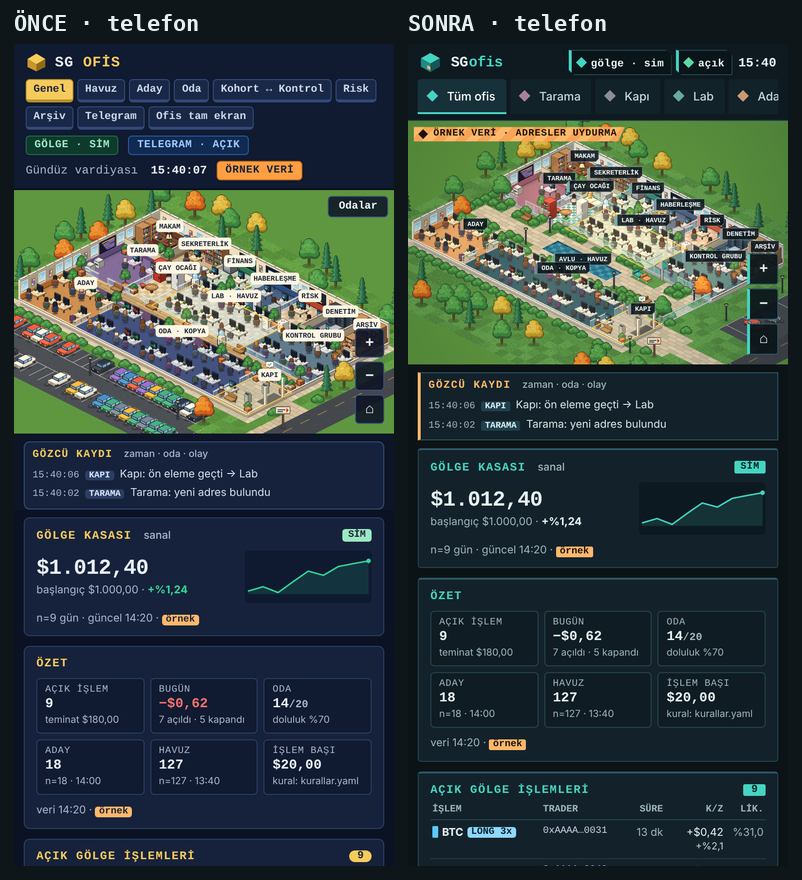
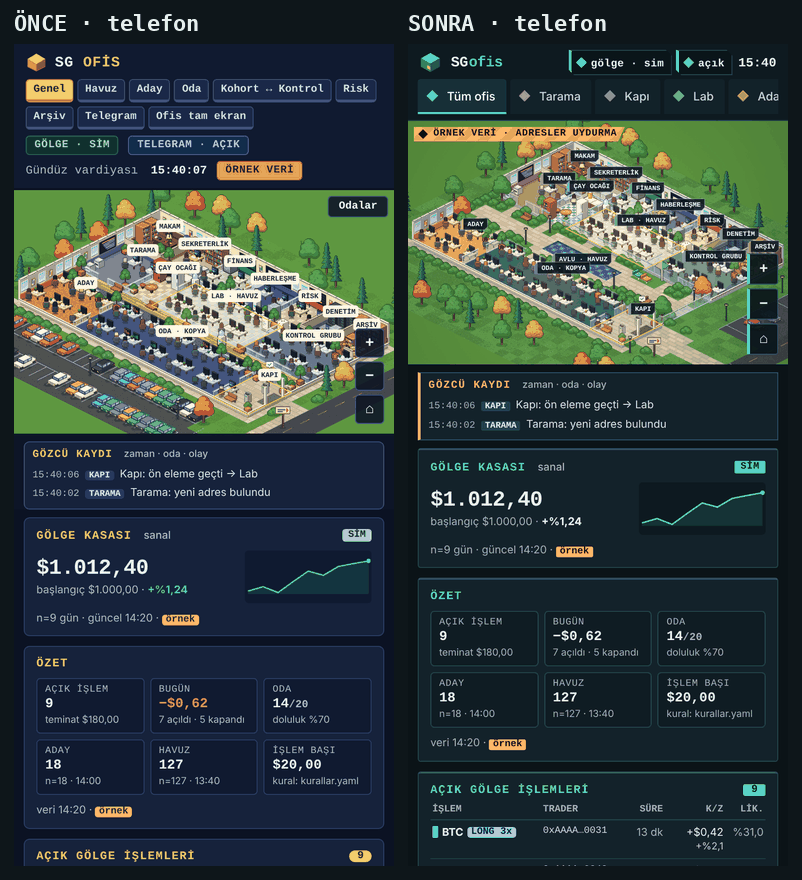
Ofis: kart sütunu varsayılan gizli; sol menüden açılan panel, günlük özet şeridi
- Masaüstünde kart sütunu gizli, tuval tüm genişlikte (◧ klasik sütunu geri getirir)
- Sol menü → kamera odaya + eşlenen kartlar ofisin üstünde panel (tek tablo: PANEL_ESLE)
- Kapatma: ×, Esc, boş alan, aynı menüye ikinci tıklama, Tüm ofis; adres #oda/<ad> korunur
- Günlük özet ofis üst kenarında tek satırlık şerit
- Telefon düzeni değişmedi; testler (ui.test.js bölüm Q), önce/sonra ekran görüntüleri

Claude-Session: https://claude.ai/code/session_01MMmx1yzZmzZDfT26uZLMe2

diff --git a/ofis/test/ui.test.js b/ofis/test/ui.test.js
@@ -35,6 +35,7 @@ const srv = http.createServer((q, r) => {
   let st = await pg.evaluate(() => ({ h: location.hash, a: OFIS.debug.mode.active, r: OFIS.debug.mode.room, t: OFIS.debug.roomT(), ust: !document.getElementById('odaUst').hidden, pr: document.querySelector('.ray [data-oda=lab]').getAttribute('aria-pressed') }));
   ok('Lab: adres #oda/lab, oda içi açık, geçiş tamam, geri düğmesi görünür', st.h === '#oda/lab' && st.a && st.r === 'lab' && st.t === 1 && st.ust && st.pr === 'true', JSON.stringify(st));
   const z1 = await pg.evaluate(() => OFIS.debug.cam.z), zf = await pg.evaluate(() => { const c = OFIS.debug.cam; return c.z; });
+  await pg.keyboard.press('Escape'); await sleep(300);                          // ilk Esc: sol menüden açılan paneli kapatır (odada kalır)
   await pg.keyboard.press('Escape'); await sleep(900);
   st = await pg.evaluate(() => ({ h: location.hash, a: OFIS.debug.mode.active, t: OFIS.debug.roomT(), ust: document.getElementById('odaUst').hidden, z: OFIS.debug.cam.z }));
   ok('Esc binaya döndürür (adres temizlenir, yakınlaşma geri alınır)', st.h === '' && !st.a && st.t === 0 && st.ust && st.z < z1 * 0.7, JSON.stringify(st) + ' zLab=' + z1.toFixed(2));
@@ -409,6 +410,101 @@ const srv = http.createServer((q, r) => {
   tx = await pg.evaluate(() => document.getElementById('bilgi').textContent);
   ok('terfi eden trader\'ın kat_olay kaydı olaydan gelir (kural, olay_id)', await pg.evaluate(() => { const t = OFIS.Office.state().traders.T004, e = OFIS.data.olaylar.find(x => x.tur === 'terfi'); return t.kat_olay && t.kat_olay.id === e.id && t.kat_olay.kural === e.kural; }));
   ok('trader repliği ve "Neden burada?" kural metnini olaydaki kural alanından alır', /≥ 3 hafta ve ≥ 10 kapanmış işlem/.test(tx), tx.slice(0, 100));
+  await ctx.close();
+
+
+  /* ---------- Q. ofis paneli: kart sütunu varsayılan gizli, sol menüden açılan panel, günlük özet şeridi ---------- */
+  ({ ctx, pg } = await open());
+  await pg.evaluate(() => { OFIS.Office.state().speed = 0; });
+  const q0 = await pg.evaluate(() => ({ sol: getComputedStyle(document.getElementById('sol')).display, tw: document.getElementById('tuval').getBoundingClientRect().width, iw: innerWidth, rayW: document.querySelector('.ray').getBoundingClientRect().width,
+    serit: (() => { const e = document.getElementById('gunSerit'), r = e.getBoundingClientRect(); return { h: r.height, top: r.top, w: r.width, txt: e.textContent }; })(), zp: document.getElementById('zPanel').getAttribute('aria-pressed') }));
+  ok('masaüstü: kart sütunu varsayılan gizli, ofis tuvali tüm genişliği kullanır (sol menü kalır)', q0.sol === 'none' && q0.tw >= q0.iw - q0.rayW - 2 && q0.rayW > 100 && q0.zp === 'false', JSON.stringify({ sol: q0.sol, tw: q0.tw, iw: q0.iw, rayW: q0.rayW }));
+  ok('günlük özet: ofisin üst kenarında tek satırlık şerit ("dün: …")', q0.serit.h <= 32 && /dün:/.test(q0.serit.txt) && q0.serit.w >= q0.tw - 2, JSON.stringify(q0.serit));
+  const gozcu0 = await pg.evaluate(() => { const r = document.getElementById('hGozcu').closest('.gozcu').getBoundingClientRect(); return { l: Math.round(r.left), b: Math.round(innerHeight - r.bottom), vis: r.height > 0 }; });
+  ok('Gözcü kaydı kutusu yerinde (sol altta)', gozcu0.vis && gozcu0.l < 200 && gozcu0.b < 80, JSON.stringify(gozcu0));
+  const panelDurum = () => pg.evaluate(() => { const p = document.getElementById('kartPanel'), r = p.getBoundingClientRect(); return { acik: !p.hidden && r.height > 0, kartlar: [...p.querySelectorAll('.kart')].map(k => k.id), baslik: document.getElementById('kpBaslik').textContent, hash: location.hash, oda: OFIS.debug.mode.room, aktif: OFIS.debug.mode.active, bilgi: !document.getElementById('bilgi').hidden, yer: r.left > 0 }; });
+  ok('açılışta panel kapalı, bina görünümü', !(await panelDurum()).acik && !(await panelDurum()).aktif);
+  /* eşleme tablosu: oda → kartlar; tabloda olmayanlar oda bilgisi kartı */
+  const ESLE = { finans: ['cKasa'], risk: ['cRisk'], oda: ['cAcik', 'cKap'], arsiv: ['cVeri'], haberlesme: ['cTelegram'], kontrol: ['cKohort'], tarama: ['cOzet', 'cHuni'], kapi: ['cOzet', 'cHuni'], lab: ['cOzet', 'cHuni'], aday: ['cOzet', 'cHuni'] };
+  const bozuk = [];
+  for (const id of Object.keys(ESLE)) {
+    await pg.click('.ray [data-oda=' + id + ']'); await sleep(450);
+    const d = await panelDurum();
+    if (!(d.acik && JSON.stringify(d.kartlar) === JSON.stringify(ESLE[id]) && d.hash === '#oda/' + id && d.oda === id && d.aktif && !d.bilgi)) bozuk.push(id + ':' + JSON.stringify(d));
+  }
+  ok('sol menü → panel eşlemesi (Finans→kasa, Risk→risk, Oda→açık işlemler, Tarama/Kapı/Lab/Aday→özet+huni, Arşiv→veri kalitesi, Haberleşme→Telegram) + kamera odaya, adres #oda/<ad>', bozuk.length === 0, bozuk.join(' | ').slice(0, 300));
+  const digerleri = [];
+  for (const id of ['denetim', 'sekreterlik', 'makam', 'cay']) {
+    await pg.click('.ray [data-oda=' + id + ']'); await sleep(450);
+    const d = await panelDurum();
+    if (!(!d.acik && d.bilgi && d.oda === id && /oda/i.test(await pg.evaluate(() => document.getElementById('bilgi').textContent)))) digerleri.push(id + ':' + JSON.stringify(d));
+  }
+  ok('diğer odalar (Denetim, Sekreterlik, Makam, Çay ocağı) → oda bilgisi kartı, panel kapalı', digerleri.length === 0, digerleri.join(' | ').slice(0, 300));
+  /* kartlar panelde: sütundan alınır, kapanınca yerine döner */
+  await pg.click('.ray [data-oda=finans]'); await sleep(450);
+  ok('panelde kart sütunundan alınan gerçek kart (Gölge kasası kilitli içerik)', await pg.evaluate(() => { const k = document.querySelector('#kartPanel #cKasa'); return !!k && /kilitli/i.test(k.textContent) && k.closest('#sol') === null; }));
+  const sirasi = await pg.evaluate(() => [...document.querySelectorAll('#sol > .kart')].map(k => k.id).join(','));
+  ok('açıkken kart sütunundan eksik (cKasa yok)', !/cKasa/.test(sirasi), sirasi);
+  /* kapatma yolları */
+  const kapaliMi = async () => !(await panelDurum()).acik && await pg.evaluate(() => document.querySelectorAll('#sol > .kart').length === 10 && document.querySelector('#sol > #cKasa') !== null);
+  await pg.click('#kpKapat'); await sleep(250);
+  const dK = await panelDurum();
+  ok('× düğmesi paneli kapatır, kartlar sütuna döner, oda içinde kalınır', await kapaliMi() && dK.aktif && dK.oda === 'finans');
+  await pg.click('.ray [data-oda=finans]'); await sleep(450); await pg.keyboard.press('Escape'); await sleep(250);
+  const dE = await panelDurum();
+  ok('Esc önce paneli kapatır (odada kalır)', await kapaliMi() && dE.aktif && dE.oda === 'finans');
+  await pg.keyboard.press('Escape'); await sleep(900);
+  ok('ikinci Esc binaya döndürür', !(await panelDurum()).aktif);
+  await pg.click('.ray [data-oda=risk]'); await sleep(450);
+  await pg.click('.ray [data-oda=risk]'); await sleep(250);
+  ok('aynı menüye ikinci tıklama paneli kapatır', await kapaliMi() && (await panelDurum()).aktif);
+  await pg.click('.ray [data-oda=risk]'); await sleep(450);
+  ok('aynı menüye üçüncü tıklama yeniden açar', (await panelDurum()).acik);
+  await pg.click('.ray [data-oda=makam]'); await sleep(450); await pg.click('.ray [data-oda=makam]'); await sleep(250);
+  ok('oda bilgisi kartında da ikinci tıklama kapatır', !(await panelDurum()).bilgi);
+  await pg.click('.ray [data-oda=finans]'); await sleep(450);
+  const bos = await pg.evaluate(() => { const r = document.getElementById('tuval').getBoundingClientRect(); for (let y = 140; y < r.height - 240; y += 20) for (let x = 520; x < r.width - 80; x += 20) { const w = OFIS.debug.toWorld(x, y); if (!OFIS.debug.pick(w.x, w.y, false)) return { x: r.left + x, y: r.top + y }; } return null; });
+  await pg.mouse.click(bos.x, bos.y); await sleep(500);
+  ok('ofiste boş alana tıklama paneli kapatır', await kapaliMi() || !(await panelDurum()).acik);
+  await pg.click('.ray [data-oda=lab]'); await sleep(450);
+  await pg.click('.ray [data-tab=genel]'); await sleep(900);
+  const dT = await panelDurum();
+  ok('"Tüm ofis" paneli kapatır ve binayı gösterir (adres temizlenir)', await kapaliMi() && !dT.aktif && dT.hash === '');
+  await pg.goto(pg.url().split('#')[0] + '#oda/lab'); await pg.reload(); await pg.waitForFunction('window.OFIS&&window.OFIS.ready'); await sleep(900);
+  const dH = await panelDurum();
+  ok('adres #oda/lab davranışı korunur (doğrudan açılış: oda içi, panel kendiliğinden açılmaz)', dH.aktif && dH.oda === 'lab' && !dH.acik);
+  await pg.click('.ray [data-oda=finans]'); await sleep(450);
+  await pg.goBack(); await sleep(900);
+  ok('tarayıcı geri tuşu: panel kapanır, önceki duruma dönülür', !(await panelDurum()).acik);
+  /* günlük özet şeridi → ayrıntı paneli */
+  await pg.click('.ray [data-tab=genel]'); await sleep(700);
+  await pg.click('#gunSerit'); await sleep(300);
+  const dG = await panelDurum();
+  ok('günlük özet şeridine tıklayınca ayrıntı paneli (Günlük özet kartı)', dG.acik && JSON.stringify(dG.kartlar) === '["cGun"]' && /dün/.test(await pg.evaluate(() => document.querySelector('#kartPanel #gunIcerik').textContent)));
+  await pg.click('#gunSerit'); await sleep(250);
+  ok('şeride ikinci tıklama kapatır', await kapaliMi());
+  /* olay çekmecesi ile birlikte çakışmaz */
+  await pg.click('.ray [data-oda=risk]'); await sleep(450); await pg.click('.ray [data-olay-ac]'); await sleep(300);
+  ok('olay çekmecesi açılınca panel kapanır (çakışma yok)', !(await panelDurum()).acik && await pg.evaluate(() => !document.getElementById('olayCekmece').hidden));
+  await pg.keyboard.press('Escape');
+  /* performans körlüğü ve yasal ibare paneldeyken de aynı */
+  await pg.click('.ray [data-oda=finans]'); await sleep(450);
+  const pnlTxt = await pg.evaluate(() => document.getElementById('kartPanel').textContent);
+  ok('panelde de kasa değeri yok ("kilitli"), yasal ibare görünür', /kilitli/i.test(pnlTxt) && !/toplam kasa|kasa değeri:\s*\$/i.test(pnlTxt) && /yatırım tavsiyesi değil/i.test(await pg.evaluate(() => document.getElementById('yasal').textContent)));
+  /* ◧ düğmesi klasik sütunu geri getirir: panel modu kapanır, eski davranış */
+  await pg.click('#zPanel'); await sleep(400);
+  const dC = await pg.evaluate(() => ({ sol: getComputedStyle(document.getElementById('sol')).display, panel: document.getElementById('kartPanel').hidden, bas: document.getElementById('zPanel').getAttribute('aria-pressed'), n: document.querySelectorAll('#sol > .kart').length }));
+  ok('◧ klasik kart sütununu geri getirir (kartlar yerine döner)', dC.sol !== 'none' && dC.panel && dC.bas === 'true' && dC.n === 10, JSON.stringify(dC));
+  await pg.click('.ray [data-oda=risk]'); await sleep(500);
+  ok('klasik sütun açıkken menü eski gibi çalışır (panel açılmaz)', (await panelDurum()).acik === false && (await panelDurum()).oda === 'risk');
+  await ctx.close();
+
+  /* telefon: düzen değişmez (kart sütunu sayfada, panel ve şerit yok, alttan çekmece) */
+  ({ ctx, pg } = await open('?saat=15:40', { viewport: { width: 390, height: 844 }, hasTouch: true, isMobile: true }));
+  const ph = await pg.evaluate(() => ({ sol: getComputedStyle(document.getElementById('sol')).display, serit: getComputedStyle(document.getElementById('gunSerit')).display, panel: getComputedStyle(document.getElementById('kartPanel')).display, sw: document.documentElement.scrollWidth, n: document.querySelectorAll('#sol > .kart').length }));
+  ok('telefon: kart sütunu sayfada görünür, şerit ve panel yok, yatay kaydırma yok', ph.sol !== 'none' && ph.serit === 'none' && ph.panel === 'none' && ph.sw <= 390 && ph.n === 10, JSON.stringify(ph));
+  await pg.tap('.ray [data-oda=finans]'); await sleep(700);
+  ok('telefon: menüye dokununca panel açılmaz, kartlar sütunda kalır', await pg.evaluate(() => document.getElementById('kartPanel').hidden && document.querySelectorAll('#sol > .kart').length === 10));
   await ctx.close();
 
   ok('sayfa/konsol hatası yok', errs.length === 0, errs.slice(0, 3).join(' | '));

diff --git a/ofis/main.js b/ofis/main.js
@@ -360,13 +360,15 @@
   }
 
   /* ---------- oda içi görünüm: aynı tuvalde kamera yakınlaşması, diğer odalar soluklaşır, adres #oda/<id> ---------- */
+  let solPx = 0;                                                   // sol üst panelin kapladığı genişlik (px)
   function interiorCam(id) {
     const r = W.roomById[id], p = W.roomPoly(r), cxp = (p[0][0] + p[2][0]) / 2, cyp = (p[0][1] + p[2][1]) / 2, ww = p[1][0] - p[3][0], hh = p[2][1] - p[0][1] + 52;
-    const pad = view.w < 700 ? 18 : 60, z = Math.max(fitZ * 1.15, Math.min(4.2, Math.min(view.w / (ww + pad * 2), view.h / (hh + pad + 56))));
-    return { cx: cxp, cy: cyp - 18, z: z };
+    const vw = view.w - solPx, pad = vw < 700 ? 18 : 60, z = Math.max(fitZ * 1.15, Math.min(4.2, Math.min(vw / (ww + pad * 2), view.h / (hh + pad + 56))));
+    return { cx: cxp - solPx / 2 / z, cy: cyp - 18, z: z };     // açık panel solu kapatır: oda kalan alanın ortasına yerleşir
   }
   function enterRoom(id, opt) {
     const r = W.roomById[id]; if (!r || r.out) return;
+    kartKapat(true);
     mode.room = id; mode.active = true; roomTWant = 1; Off.select(id); markRay(id); infoShift = 0;
     if (opt && opt.instant) roomT = 1;
     setCam(interiorCam(id), !(opt && opt.instant));
@@ -376,6 +378,7 @@
     kick();
   }
   function exitRoom(opt) {
+    kartKapat(true);
     mode.active = false; infoShift = 0; roomTWant = 0; Off.select(null); markRay(null); Info.close();
     if (opt && opt.instant) { roomT = 0; mode.room = null; }
     setCam(fit(), !(opt && opt.instant));
@@ -391,6 +394,7 @@
     applyRoute();
   }
   function goBuilding() {
+    kartKapat(true);
     if (!mode.active) { markRay(null); setCam(fit(), true); kick(); return; }
     const d = depth();
     if (d > 0) history.go(-d);                                    // tarayıcı geçmişi: popstate binaya döndürür
@@ -442,8 +446,8 @@
     hideTip();
     if (p) { Info.show(p); return; }
     const room = roomAtWorld(w.x, w.y);
-    if (room) { if (mode.active && mode.room === room.id) { Info.close(); kick(); } else goRoom(room.id); }
-    else { Info.close(); kick(); }
+    if (room) { if (mode.active && mode.room === room.id) { Info.close(); kartKapat(); kick(); } else goRoom(room.id); }
+    else { Info.close(); kartKapat(); kick(); }
   });
   cv.addEventListener('pointerleave', () => { hover = null; hoverRoom = null; hideTip(); kick(); });
   cv.addEventListener('wheel', e => {
@@ -462,7 +466,7 @@
   document.addEventListener('keydown', e => {
     if (e.key !== 'Escape') return;
     const dlg = $('#ayarlar'); if (dlg && dlg.open) return;      // ayarlar penceresi kendi Esc'ini yönetir
-    if (O.Cekmece.isOpen()) { O.Cekmece.close(); kick(); } else if (Info.isOpen()) { Info.close(); kick(); } else if (mode.active) goBuilding(); else if (document.body.classList.contains('tam')) togglePanel();
+    if (O.Cekmece.isOpen()) { O.Cekmece.close(); kick(); } else if (kartAcik) { kartKapat(); kick(); } else if (Info.isOpen()) { Info.close(); kick(); } else if (mode.active) goBuilding();
   });
   function zoomBy(f) { setCam({ cx: cam.cx, cy: cam.cy, z: Math.max(fitZ * 0.7, Math.min(4.2, cam.z * f)) }, true); kick(); }
   $('#zIn').addEventListener('click', () => zoomBy(1.35));
@@ -470,12 +474,18 @@
   $('#zFit').addEventListener('click', goBuilding);
 
   /* ---------- sol dikey menü ---------- */
-  const ODA_KART = { tarama: '#cHuni', kapi: '#cHuni', lab: '#cHuni', aday: '#cHuni', oda: '#cAcik', kontrol: '#cKohort', finans: '#cKasa', risk: '#cRisk', denetim: '#cVeri', arsiv: '#cVeri', haberlesme: '#cTelegram', sekreterlik: '#cOzet' };
+  /* sol menü → ofisin üstünde açılan panel. TEK EŞLEME TABLOSU: oda → açılacak kart(lar) (index.html'deki kart kimlikleri).
+     Tabloda olmayan odalar (denetim, sekreterlik, makam, çay ocağı) oda bilgisi kartını (bilgi kutusu) açar. */
+  const HUNI = ['cOzet', 'cHuni'];
+  const PANEL_ESLE = {
+    finans: ['cKasa'], risk: ['cRisk'], oda: ['cAcik', 'cKap'], arsiv: ['cVeri'], haberlesme: ['cTelegram'], kontrol: ['cKohort'],
+    tarama: HUNI, kapi: HUNI, lab: HUNI, aday: HUNI,
+  };
   function markRay(id) {
     document.querySelectorAll('.ray [data-tab], .ray [data-oda]').forEach(b => b.setAttribute('aria-pressed', (id ? b.dataset.oda === id : b.dataset.tab === 'genel') ? 'true' : 'false'));
   }
-  function goCard(sel) {
-    const el = sel && $(sel); if (!el) return;
+  function goCard(id) {
+    const el = id && $('#' + id); if (!el) return;
     const sol = $('#sol');
     if (!window.matchMedia('(min-width: 900px)').matches || !sol) return;   // telefonda sayfa kaymaz: ofis görünür kalır
     sol.scrollTo({ top: el.offsetTop - 8, behavior: reduced ? 'auto' : 'smooth' });
@@ -493,12 +503,50 @@
   document.querySelectorAll('.ray [data-tab]').forEach(b => b.addEventListener('click', () => setTab(b.dataset.tab)));
   document.querySelectorAll('.ray [data-oda]').forEach(b => {
     const r = W.roomById[b.dataset.oda]; if (r) b.style.setProperty('--c', lighten(r.ac, 0.28));
-    b.addEventListener('click', () => { goRoom(b.dataset.oda); goCard(ODA_KART[b.dataset.oda]); });
+    b.addEventListener('click', () => railTik(b.dataset.oda));
   });
+  /* panel modu: geniş ekran + kart sütunu gizli (varsayılan). Aksi halde (telefon, klasik sütun) eski davranış: kart sütununda kaydır */
+  const panelModu = () => window.matchMedia('(min-width: 900px)').matches && document.body.classList.contains('tam');
+  let kartAcik = null;                                           // { id, yer: [[yerTutucu, kart], …] }
+  function kartKapat(sessiz) {
+    if (!kartAcik) return;
+    kartAcik.yer.forEach(([ph, el]) => ph.replaceWith(el));
+    kartAcik = null; solPx = 0; $('#kartPanel').hidden = true;
+    if (!sessiz && mode.active) setCam(interiorCam(mode.room), true);
+    kick();
+  }
+  function kartAc(id, kartlar, baslik) {
+    kartKapat(true);
+    if (Info.isOpen()) Info.close();
+    if (O.Cekmece.isOpen()) O.Cekmece.close();
+    const ic = $('#kpIc'), yer = [];
+    kartlar.forEach(k => { const el = $('#' + k); if (!el) return; const ph = document.createComment(k); el.before(ph); ic.appendChild(el); yer.push([ph, el]); });
+    kartAcik = { id, yer }; $('#kpBaslik').textContent = baslik; $('#kartPanel').hidden = false; ic.scrollTop = 0;
+    solPx = $('#kartPanel').offsetWidth + 10;
+    if (mode.active) setCam(interiorCam(mode.room), true);
+    kick();
+  }
+  function railTik(id) {
+    if (!panelModu()) { goRoom(id); goCard((PANEL_ESLE[id] || [])[0]); return; }
+    const c = Info.current();
+    if ((kartAcik && kartAcik.id === id) || (!PANEL_ESLE[id] && mode.room === id && c && c.type === 'oda' && c.id === id)) {   // aynı menüye ikinci tıklama
+      kartKapat(); if (Info.isOpen()) Info.close(); kick(); return;
+    }
+    goRoom(id);                                                  // kamera odaya gider; önceki panel kapanır
+    if (PANEL_ESLE[id]) kartAc(id, PANEL_ESLE[id], Names.room(id, (W.roomById[id] || {}).ad)); else Info.show({ type: 'oda', id });
+  }
+  function seritTik() {
+    if (!panelModu()) { goCard('cGun'); return; }
+    if (kartAcik && kartAcik.id === 'gun') kartKapat(); else kartAc('gun', ['cGun'], 'Günlük özet');
+  }
+  $('#gunSerit').addEventListener('click', seritTik);
+  $('#kpKapat').addEventListener('click', () => kartKapat());
+  window.matchMedia('(min-width: 900px)').addEventListener('change', () => kartKapat(true));
   function togglePanel() {
     const on = !document.body.classList.contains('tam');
+    if (!on) kartKapat(true);                                    // klasik sütun açılınca kartlar yerine döner
     document.body.classList.toggle('tam', on);
-    const b = $('#zPanel'); if (b) b.setAttribute('aria-pressed', on ? 'true' : 'false');
+    const b = $('#zPanel'); if (b) b.setAttribute('aria-pressed', on ? 'false' : 'true');   // basılı = klasik kart sütunu görünür
     setTimeout(() => { resize(); setCam(mode.active ? interiorCam(mode.room) : fit(), false); kick(); }, 60);
   }
   $('#zPanel').addEventListener('click', togglePanel);
@@ -562,8 +610,8 @@
     updateLight(); resize();
     new ResizeObserver(() => { resize(); kick(); }).observe($('#ofisTuval'));
     Off.on(() => kick());                      // durum her değiştiğinde (dışarıdan gelen olay dâhil) döngü uyanır
-    Info.init(Off, { invalidate: kick, onShow: sel => { if (O.Cekmece.isOpen()) O.Cekmece.close(); pinned = sel.type === 'person' ? sel.a : null; shiftFor(true); }, onClose: () => { pinned = null; shiftFor(false); } }, replik || undefined);
-    O.Cekmece.init(Off, { invalidate: kick, beforeOpen: () => { if (Info.isOpen()) Info.close(); },
+    Info.init(Off, { invalidate: kick, onShow: sel => { if (O.Cekmece.isOpen()) O.Cekmece.close(); if (kartAcik && !(sel.type === 'oda')) kartKapat(true); pinned = sel.type === 'person' ? sel.a : null; shiftFor(true); }, onClose: () => { pinned = null; shiftFor(false); } }, replik || undefined);
+    O.Cekmece.init(Off, { invalidate: kick, beforeOpen: () => { if (Info.isOpen()) Info.close(); kartKapat(); },
       focusEvent: en => {                          // olaya tıkla: kamera o odaya gider, ilgili figür vurgulanır
         const room = W.roomById[en.oda];
         if (room && !room.out) goRoom(en.oda);

diff --git a/ofis/ofis.css b/ofis/ofis.css
@@ -140,8 +140,8 @@ button { font: inherit; color: inherit; cursor: pointer; }
 .gozcu li span { flex: 1; min-width: 0; overflow: hidden; text-overflow: ellipsis; white-space: nowrap; }
 .gozcu .bos { padding: 2px 0; font-size: 11px; }
 
-/* paneli gizle (geniş görünüm) */
-body.tam .sol { display: none; } body.tam .ana { grid-template-columns: 1fr; }
+/* kart sütunu varsayılan gizli (geniş görünüm; telefonda düzen aynı kalır). ◧ düğmesi klasik sütunu geri getirir */
+@media (min-width: 900px) { body.tam .sol { display: none; } body.tam .ana { grid-template-columns: 1fr; } }
 
 /* telefon */
 @media (max-width: 899px) {
@@ -276,3 +276,21 @@ dialog#ayarlar::backdrop { background: rgba(0, 0, 0, .62); }
   .c-filtre { grid-template-columns: 1fr; } .c-filtre select, .c-filtre button { min-height: 44px; }
   .g-tumu { min-height: 44px; } .birim-kart { grid-template-columns: 1fr; }
 }
+
+/* ofisin üstünde açılan panel ve günlük özet şeridi (yalnız geniş görünüm; telefonda kartlar sayfada kalır) */
+.gun-serit { position: absolute; left: 0; right: 0; top: 0; height: 30px; z-index: 4; display: flex; align-items: center; gap: 10px; padding: 0 12px; background: rgba(10, 21, 25, .9); border: 0; border-bottom: 1px solid #2f5260; color: #eaf4f5; font: 600 12px var(--mono); text-align: left; cursor: pointer; white-space: nowrap; overflow: hidden; }
+.gun-serit b { color: var(--accent2); text-transform: uppercase; letter-spacing: .08em; font-size: 11px; flex: 0 0 auto; }
+.gun-serit span { flex: 1 1 auto; min-width: 0; overflow: hidden; text-overflow: ellipsis; }
+.gun-serit em { font-style: normal; color: var(--muted); flex: 0 0 auto; }
+.gun-serit:hover, .gun-serit:focus-visible { background: rgba(27, 53, 64, .95); }
+.kart-panel { position: absolute; left: 10px; top: 118px; z-index: 8; width: 372px; max-width: calc(100% - 20px); max-height: calc(100% - 118px - 215px); display: flex; flex-direction: column; background: rgba(10, 21, 25, .97); border: 1px solid #3a6676; border-left: 3px solid var(--accent); box-shadow: 0 8px 24px rgba(0, 0, 0, .5); }
+.kart-panel[hidden] { display: none; }
+.kp-bas { display: flex; align-items: center; justify-content: space-between; padding: 0 0 0 10px; border-bottom: 1px solid #26434e; }
+.kp-bas h2 { margin: 0; font: 700 12px var(--mono); letter-spacing: .1em; text-transform: uppercase; color: var(--accent); }
+.kp-bas button { width: 44px; height: 44px; background: none; border: 0; color: #eaf4f5; font-size: 26px; line-height: 1; }
+.kp-ic { overflow-y: auto; padding: 8px; display: flex; flex-direction: column; gap: 8px; }
+@media (min-width: 900px) {
+  .ust-sol { top: 40px; } .oda-ust { top: 74px; }
+  .bilgi, .cekmece { top: 40px; }
+}
+@media (max-width: 899px) { .gun-serit, .kart-panel { display: none !important; } }

diff --git a/ofis/index.html b/ofis/index.html
@@ -7,7 +7,7 @@
   <meta name="description" content="sg-arge copy trade hattının animasyonlu izometrik ofis görünümü. Örnek veriyle çalışır; gerçek emir yok.">
   <link rel="stylesheet" href="ofis.css">
 </head>
-<body>
+<body class="tam">
 <a class="atla" href="#ofisTuval">Ofise geç</a>
 <noscript><p class="hata">Bu sayfa JavaScript gerektirir (piksel ofis kodla çizilir).</p></noscript>
 <p id="hata" class="hata" role="alert" hidden></p>
@@ -101,6 +101,7 @@
       <canvas id="tuval" tabindex="0" role="img" aria-label="İzometrik ofis binası" aria-describedby="ofisAciklama"></canvas>
       <p id="ofisAciklama" class="sr">Ofis yükleniyor.</p>
       <div class="ipucu" id="ipucu" role="tooltip" hidden></div>
+      <button type="button" class="gun-serit" id="gunSerit" aria-controls="kartPanel" aria-label="Günlük özet; ayrıntı için tıkla"><b>Günlük özet</b><span id="gunSeritMetin">—</span><em>ayrıntı ›</em></button>
       <div class="ust-sol">
         <span class="serit" id="ornekFlt"><i></i>örnek veri · adresler uydurma</span>
         <span class="lejant" aria-label="Kol işaretleri"><i style="background:#ffb86b"></i>kohort <i style="background:#7cc4ff"></i>kontrol <i style="background:#b7c4c9"></i>havuz</span>
@@ -110,6 +111,10 @@
         <span class="oda-baslik" id="odaBaslik"></span>
         <button type="button" id="odaBilgiBtn">Oda bilgisi</button>
       </div>
+      <aside class="kart-panel" id="kartPanel" role="region" aria-label="Ofis paneli" hidden>
+        <header class="kp-bas"><h2 id="kpBaslik">Panel</h2><button type="button" id="kpKapat" aria-label="Paneli kapat (Esc)">×</button></header>
+        <div class="kp-ic" id="kpIc"></div>
+      </aside>
       <aside class="bilgi" id="bilgi" role="region" aria-label="Bilgi kutusu" hidden></aside>
       <aside class="cekmece" id="olayCekmece" role="region" aria-label="Olay çekmecesi" hidden>
         <header><h2>Olay çekmecesi <small id="cSay"></small></h2><button type="button" id="cKapat" aria-label="Olay çekmecesini kapat">×</button></header>
@@ -127,7 +132,7 @@
         <button type="button" id="zIn" aria-label="Yakınlaştır">+</button>
         <button type="button" id="zOut" aria-label="Uzaklaştır">−</button>
         <button type="button" id="zFit" aria-label="Tüm ofisi sığdır">⌂</button>
-        <button type="button" id="zPanel" aria-label="Sol paneli gizle ya da göster" aria-pressed="false">◧</button>
+        <button type="button" id="zPanel" aria-label="Klasik kart sütununu göster ya da gizle" aria-pressed="false">◧</button>
       </div>
     </div>
     <section class="gozcu" aria-labelledby="hGozcu">

diff --git a/ofis/panel.js b/ofis/panel.js
@@ -27,6 +27,7 @@
     const g = (O.Names.kadro().ozet_gruplari || []), r = Off.gunlukOzet(g);
     $('#gunIcerik').innerHTML = '<p class="gun-satir"><b>' + esc(r.dun) + '</b></p><p class="gun-satir gun-alt">' + esc(r.bugun) + '</p>';
     $('#gunMeta').innerHTML = 'kaynak: olay günlüğü (n=' + r.n + ') · ' + ORN;
+    const sr = $('#gunSeritMetin'); if (sr) sr.textContent = r.dun + ' · ' + r.bugun;
   }
   function kasa() {
     // ön kayıt: toplanmış performans (kasa değeri, eğri, % değişim) ofiste gösterilmez

diff --git a/README.md b/README.md
@@ -14,7 +14,8 @@
 `örnek veri` şeridi); gerçek `durum.json`'a bağlanması D yolu Faz 5'tir. Derleme yok, kütüphane yok, görsel varlık yok (hepsi kodla çizilir).
 - **Sürüm 2 (ilk 5 iş):** odaya tıklayınca iç görünüm (`#oda/lab`, Kapı, Arşiv…), ortak bilgi kutusu (masaüstü panel / telefon çekmece), `replikler.json`, iletişim işaretleri (zarf/not/ok), oda ve çalışan adlarını değiştirme (`kadro.json`). Testler: `node ofis/test/replik.test.js`, `node ofis/test/ui.test.js` (Playwright).
 - **Sürüm 2b:** olay çekmecesi (filtre, kameraya git), veriden türeyen bayatlık (`esik_dk`, sis, "VERİ ESKİ"), oda iç ayrıntıları, günlük özet, isteğe bağlı ses (varsayılan kapalı).
-- Düzen: ortasında avlu ve havuzlu bahçe olan iki kanatlı bina; sol dikey menü (Bina / Hat / Destek), durum plakaları, sol özet paneli (Adım 0 özgünleştirmesi, `ofis/LISANSLAR.md`).
+- Düzen: ortasında avlu ve havuzlu bahçe olan iki kanatlı bina; sol dikey menü (Bina / Hat / Destek), durum plakaları (Adım 0 özgünleştirmesi, `ofis/LISANSLAR.md`).
+- **Ofis paneli (`claude/ofis-panel`):** masaüstünde kart sütunu varsayılan **gizli**; ofis tuvali tüm genişliği kullanır. Sol menüde bir öğeye tıklayınca kamera o odaya gider ve ilgili kart(lar) ofisin üstünde açılır panel olarak gelir (eşleme tek tablo: `main.js` → `PANEL_ESLE`; tabloda olmayan odalar oda bilgisi kartını açar). Kapatma: ×, Esc, boş alana tıklama, aynı menüye ikinci tıklama, "Tüm ofis". Günlük özet ofisin üst kenarında tek satırlık şerit (tıklayınca ayrıntı paneli). ◧ düğmesi klasik kart sütununu geri getirir. Telefon düzeni değişmedi (kartlar sayfada, alttan çekmece).
 - Sayfa: `ofis/` (GitHub Pages'te `…/ofis/`). Belgeler: `ofis/SEMA.md` (veri), `ofis/OLAYLAR.md` (olay → animasyon), `ofis/LISANSLAR.md`.
 - Deneme parametreleri: `?saat=23:14` (gün ışığı), `?hiz=2`, `?etiket=0`, `?hareket=0`, `?perf=1` (ayrıntı `ofis/SEMA.md` §6).
 - Salt okunur; gerçek emir, para ve aracı kurum bağlantısı yok.

diff --git a/ofis/OLAYLAR.md b/ofis/OLAYLAR.md
@@ -99,3 +99,6 @@ Performansı oyunlaştıran öğe de yoktur: işlem K/Z'si yalnız işaretli say
 - **Ses**: varsayılan kapalı (Ayarlar → "Olay sesi"), olay başına tek kısa ton (WebAudio, frekans `kadro.json` `olay_turleri[tur].ton`), dosya yok; olay yağmurunda en çok birkaç ton; tercih `sgofis.ses.v1`.
 - **Kural metni** her yerde olaydaki `kural` alanından gelir (terfi: "gölgede ≥ 3 hafta ve ≥ 10 kapanmış işlem", ön kayıtla aynı); kodda veya replikte sabit sayı yoktur (test denetler).
 - **Oda ayrıntıları:** Risk alarm paneli (tavan doluluğu, alarmda yanar), Haberleşme büyük ekran + zarf rafı (bugünkü bildirim sayısı, en çok 12 zarf), Sekreterlik ön kayıt kasası (sürüm, commit, dondurma tarihi), Oda trader masaları; her odanın bilgi kutusunda "Bu birim ne yapar / ne yapmaz" kartı.
+
+## Ofis paneli (sol menü → açılan panel)
+Masaüstünde kart sütunu gizlidir; sol menü öğesi odaya gider ve eşlenen kartları ofisin üstünde panel olarak açar (`PANEL_ESLE`): Finans → Gölge kasası · Risk → Risk tavanları · Oda → Açık gölge işlemleri + Son kapananlar · Arşiv → Veri kalitesi · Haberleşme → Telegram · Kontrol → Kohort ↔ Kontrol (kilitli) · Tarama/Kapı/Lab/Aday → Özet + Huni · diğerleri → oda bilgisi kartı. Kapatma: ×, Esc (önce panel, sonra oda), boş alan, aynı menüye ikinci tıklama, "Tüm ofis". Olay çekmecesi açılınca panel kapanır. Performans körlüğü kartların içeriğinde aynen geçerlidir.

diff --git a/docs/sonnet_durum_ofis.md b/docs/sonnet_durum_ofis.md
@@ -48,3 +48,10 @@ Not: #18 (Adım 0) bu dalı açarken henüz birleşmemişti; dal `sonnet/ofis-ta
 - Düzeltme (testle bulundu): terfi eden trader'ın `kat_olay` kaydı eski (Kapı) kuralında kalıyordu; artık olaydan güncelleniyor.
 - Kanıt: `ofis/kanit/v2b/` (masaüstü + telefon ekran görüntüleri, 20 sn kayıt: çekmece → filtre → olaya tıkla → kamera odaya → bayat oda sisi). v2'nin gif kopyası alan açmak için silindi (mp4 duruyor).
 - Testler: `node ofis/test/replik.test.js`, `node ofis/test/ui.test.js` (86 kontrol) — hepsi geçti.
+
+## Ofis paneli (dal `claude/ofis-panel`, 2026-10-28)
+- [x] Kart sütunu masaüstünde varsayılan gizli; tuval tüm genişlik. [x] Sol menü → kamera + açılır panel (tek eşleme tablosu `PANEL_ESLE`). [x] Kapatma yolları (×, Esc, boş alan, ikinci tıklama, Tüm ofis). [x] Günlük özet şeridi. [x] Gözcü kaydı yerinde, telefon düzeni aynı.
+- Karar: Kontrol → Kohort ↔ Kontrol kartı ve Oda → +Son kapananlar eklendi (aksi halde bu kartlar masaüstünde erişilemez olurdu); `PANEL_ESLE` tek satırla değişir.
+- Eski testlerde Esc davranışı: menüden açılan panel varsa ilk Esc paneli kapatır (Lab testi güncellendi).
+- Kanıt: `ofis/kanit/panel/` (önce/sonra, 1440 ve 1920). `ofis/kanit` boyutu 15 MB sınırı için v2 PNG'leri palet sıkıştırmasına çevrildi (≈ 10 MB).
+- Testler: `ui.test.js` bölüm Q (panel aç/kapa; 112 kontrol), `replik.test.js` geçti.
